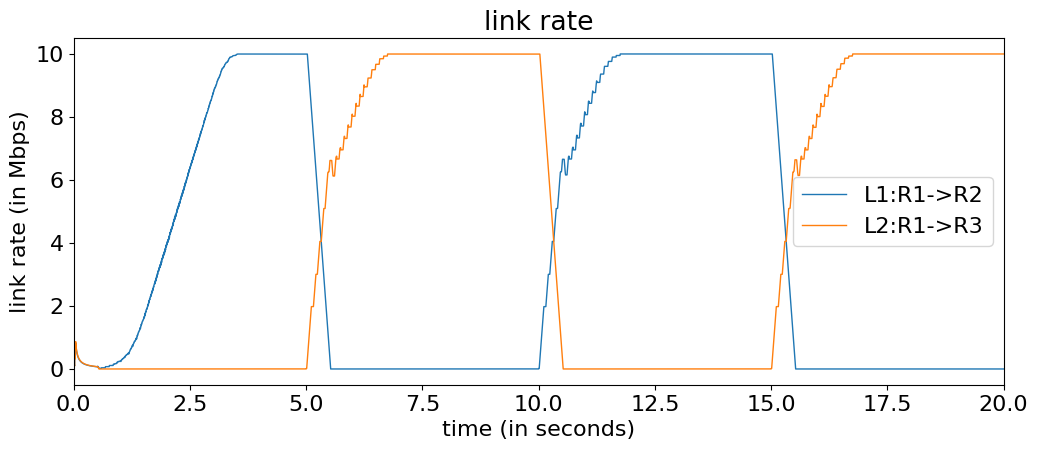
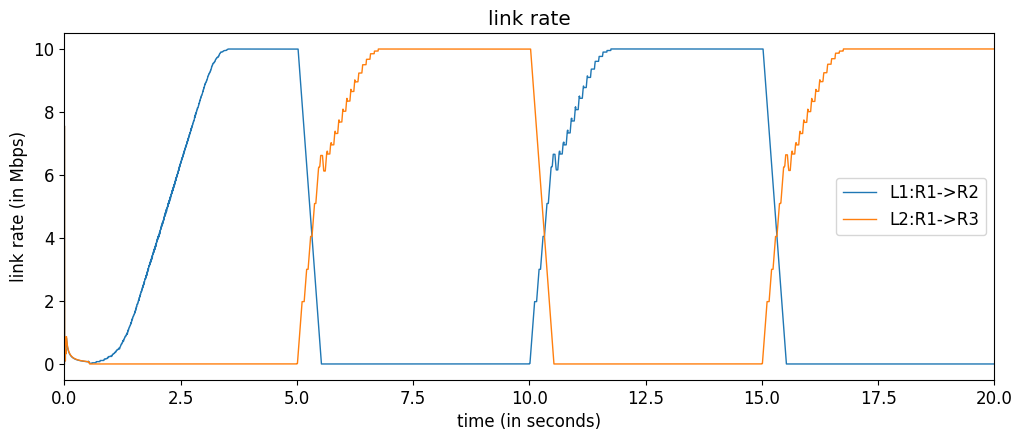
Fixed routers and fixed test case 5.

diff --git a/router.py b/router.py
@@ -8,12 +8,14 @@ class Router:
         Initial Arguments:
             - id : id of the router
             - links : list of links connected to the router
-        Attributes: 
+        Attributes:
+            - id : id of the router
             - ip : IP address of the the router
+            - links : list of links connected to the router
             - routing_table : routing table to get packets to their dest
             - link_state_array : keeps track of states of all links
             - handshakes_acked : keep strack of how many handshake acknowledgements are
-        # received, so that we know when our routing table is done
+              received, so that we know when our routing table is done
         '''
         self.id = id
         self.ip = 0
@@ -39,14 +41,15 @@ class Router:
             self.receive_link_state(packet.data)
 
         else:
-            self.forward_packet(packet) 
+            self.forward_packet(packet)
 
     # Function to manage forwarding packets along the routing table
     def forward_packet(self, packet):
         # Looks up destination on routing table
+        print(self.routing_table)
         link_path = self.routing_table.get(packet.get_destination())
         globals.idmapping['links'][link_path].add_to_buffer(packet, self.id)
-        
+
     # Send the initial handshake packet to the adjacent routers to determine which nodes are connected
     def send_handshake(self):
         # Define the handshake packet with the router id as its data
@@ -87,13 +90,14 @@ class Router:
 
         if self.handshakes_acked == len(self.links):
             self.recalc_link_state()
+            self.run_dijkstra()
             self.handshakes_acked = 0
 
     # Upon receiving a link state, the router must update its own link state array
     def receive_link_state(self, state_array_actual):
         state_array = state_array_actual.copy()
         is_updated = False
-        
+
         for value in state_array:
             if self.id in (value[0], value[1]):
                 state_array.remove(value)
@@ -102,7 +106,7 @@ class Router:
             in_array = False
             for value in self.link_state_array:
                 if (item[0], item[1]) == (value[0], value[1]):
-                    in_array = True     
+                    in_array = True
                     if(value[3] != item[3]):
                         value[3] = item[3]
                         is_updated = True
@@ -136,7 +140,7 @@ class Router:
         nodes[start_node] = [0, '']
         current_node = start_node
         seen_nodes.append(start_node)
-  
+
         # While we have unvisited nodes
         while unvisited_nodes != []:
 
@@ -164,9 +168,3 @@ class Router:
         for key in nodes:
             rt[key] = nodes.get(key)[1]
         self.routing_table = rt
-
-
-
-
-
-

diff --git a/link.py b/link.py
@@ -98,6 +98,7 @@ class Link:
         if (self.track and globals.PACKETLOSS in globals.LINKMETRICS):
             key = self.id + ":" + globals.PACKETLOSS
             globals.statistics[key][globals.systime] = self.droppedpackets
+            self.droppedpackets = 0
 
 
 
@@ -215,6 +216,7 @@ class HalfLink:
         # if there isn't room in the buffer, we return 0 to indicate that the
         # packet was dropped.
         else:
+            print("Dropped packet at time ", globals.systime)
             return 0
 
         """ I DONT KNOW IF THIS IS BETTER THAN JUST UPDATING BUFFEROCCUPANCY

diff --git a/simulator.py b/simulator.py
@@ -82,7 +82,7 @@ class Simulator:
     # Plots metrics based on data collected while the simulations was running
     def plot_metrics2(self):
         if (globals.PRESENTATIONMODE):
-            plot.rcParams.update({'font.size' : 16})
+            plot.rcParams.update({'font.size' : 12})
             plot.tight_layout()
         # Access all metrics
         all_metrics = globals.LINKMETRICS + globals.HALFLINKMETRICS + globals.FLOWMETRICS
